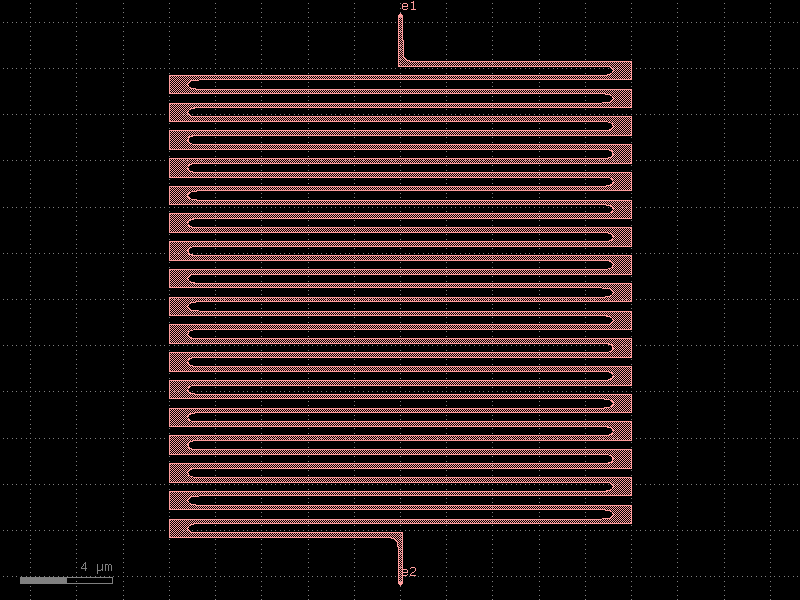
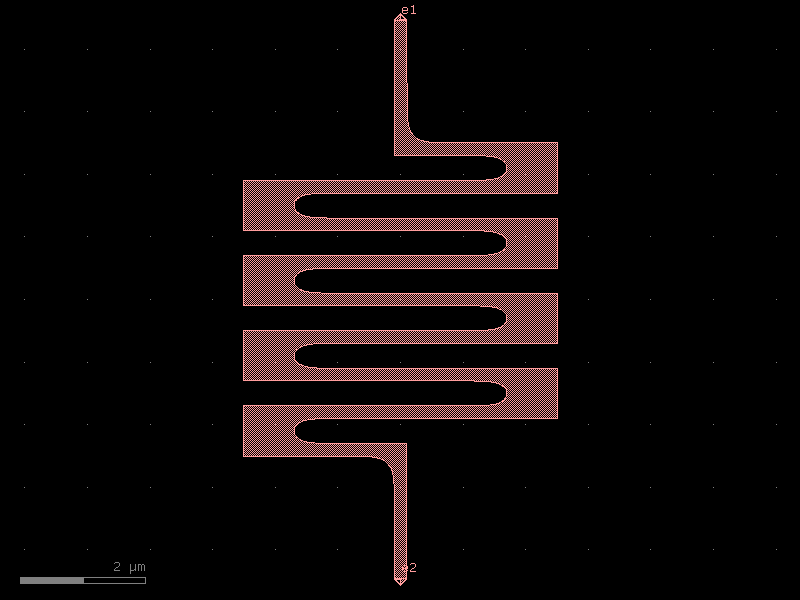
fix snspd docstring and change default size

diff --git a/src/qnngds/devices/snspd.py b/src/qnngds/devices/snspd.py
@@ -12,7 +12,7 @@ from typing import Tuple, Optional, Union
 def basic(
     wire_width: float = 0.2,
     wire_pitch: float = 0.6,
-    size: Tuple[Optional[Union[int, float]], Optional[Union[int, float]]] = (20, 20),
+    size: Tuple[Optional[Union[int, float]], Optional[Union[int, float]]] = (5, 5),
     num_squares: Optional[int] = None,
     turn_ratio: Union[int, float] = 4,
     num_pts: int = 50,
@@ -149,7 +149,7 @@ def basic(
 def vertical(
     wire_width: float = 0.2,
     wire_pitch: float = 0.6,
-    size: Tuple[Union[int, float], Union[int, float]] = (20, 20),
+    size: Tuple[Union[int, float], Union[int, float]] = (5, 5),
     num_squares: Optional[int] = None,
     extend: Optional[float] = 1,
     layer: tuple = (1, 0),
@@ -161,7 +161,7 @@ def vertical(
     Args:
         wire_width (float): Width of the nanowire.
         wire_pitch (float): Pitch of the nanowire.
-        size (tuple of int or float): Size of the detector in squares (width, height).
+        size (tuple of int or float): Size of the detector.
         num_squares (Optional[int]): Number of squares in the detector.
         extend (Optional[bool]): Whether or not to extend the ports.
         layer (tuple): GDS layer tuple (layer, type)
